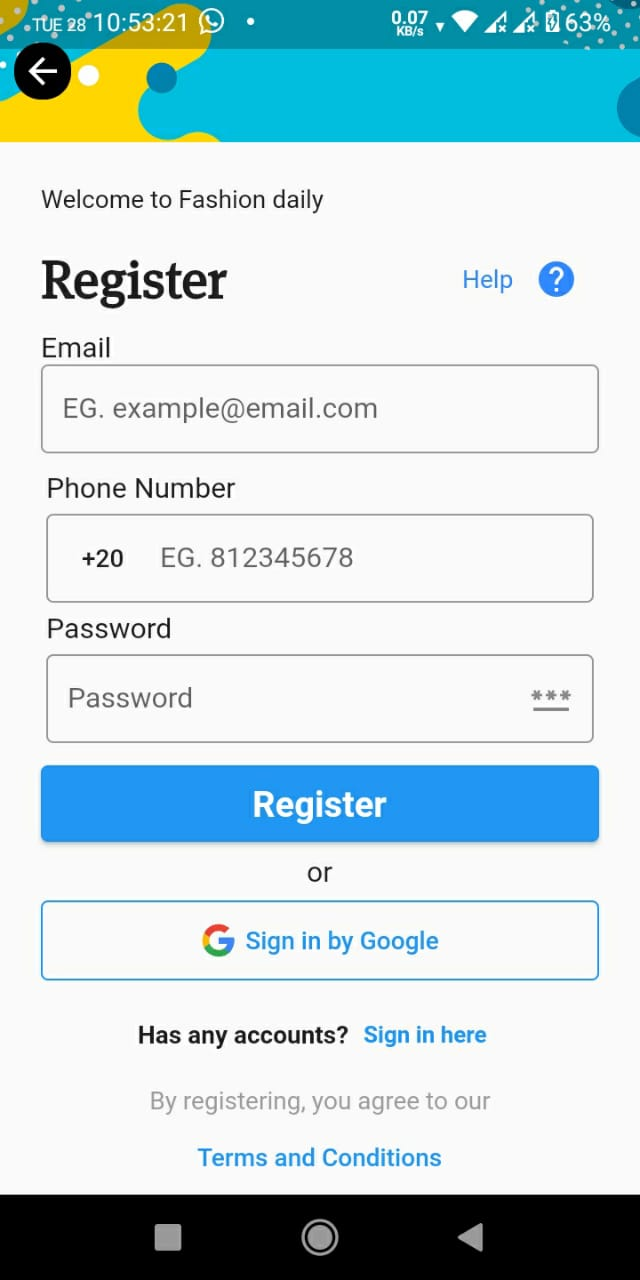
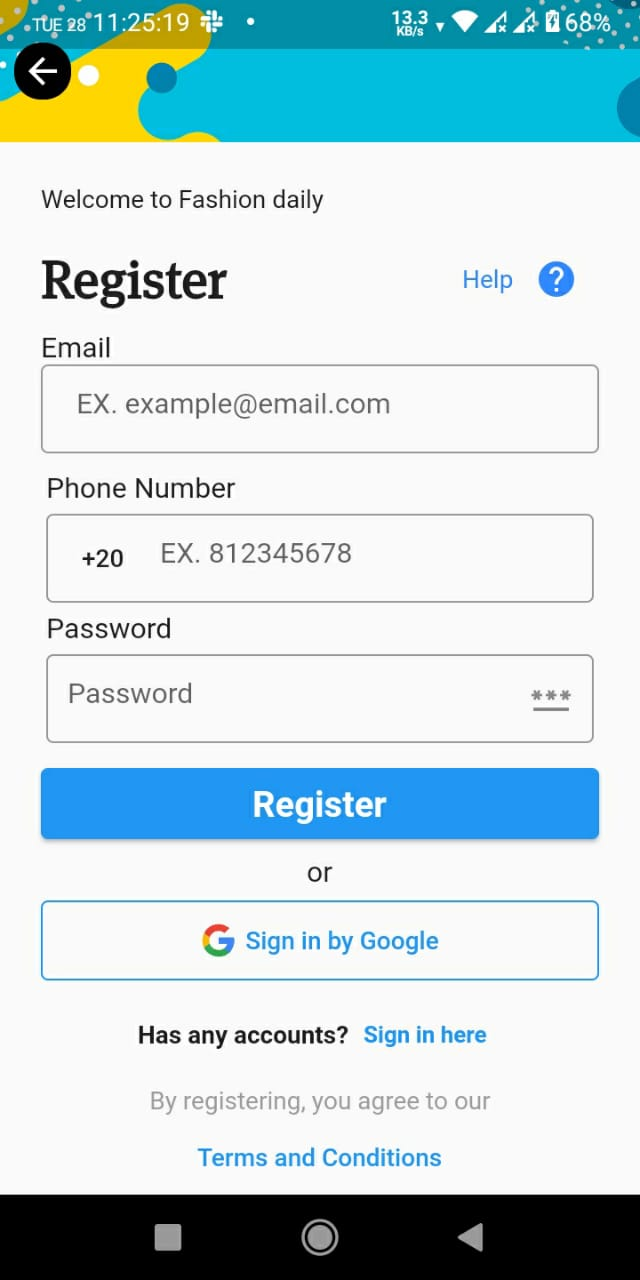
renew screenshots

diff --git a/lib/presentation/register_screen.dart b/lib/presentation/register_screen.dart
@@ -118,7 +118,7 @@ class RegisterScreen extends StatelessWidget {
                         controller: email,
                         type: TextInputType.emailAddress,
                         isPassword: false,
-                        hint: 'EG. example@email.com'),
+                        hint: '  EX. example@email.com'),
                   ),
                   Padding(
                     padding: const EdgeInsets.symmetric(
@@ -139,7 +139,7 @@ class RegisterScreen extends StatelessWidget {
                             height: 50,
                             controller: email,
                             isPassword: false,
-                            hint: 'EG. 812345678',
+                            hint: 'EX. 812345678',
                             type: TextInputType.phone,
                             prefixWidget: CountryCodePicker(
                               alignLeft: false,

diff --git a/lib/presentation/login_screen.dart b/lib/presentation/login_screen.dart
@@ -92,7 +92,7 @@ class LoginScreen extends StatelessWidget {
                             height: 50,
                             controller: phone,
                             isPassword: false,
-                            hint: 'EG. 812345678',
+                            hint: 'EX. 812345678',
                             type: TextInputType.phone,
                             prefixWidget: CountryCodePicker(
                               alignLeft: false,
